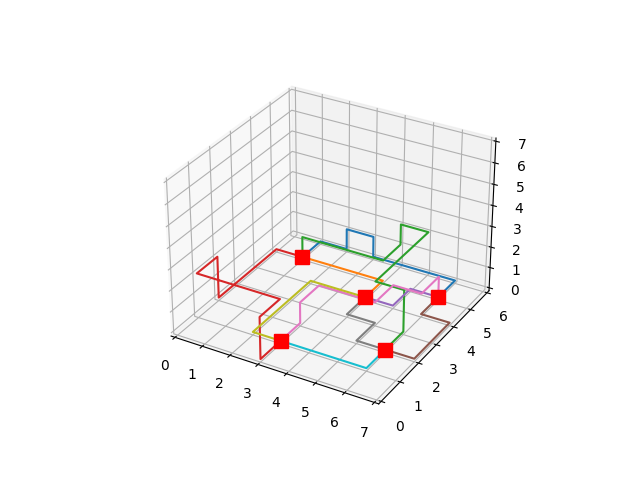
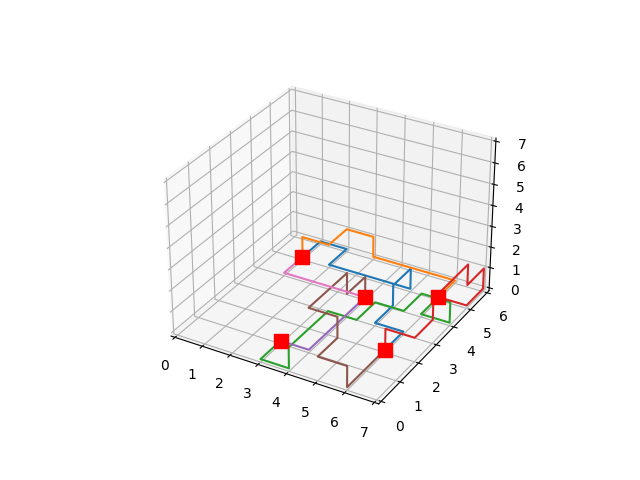
randomise

Changed region(s): [[0.3125, 0.4688, 0.7812, 0.8125]]

diff --git a/code/algorithms/randomise.py b/code/algorithms/randomise.py
@@ -1,7 +1,7 @@
 """
 This file contains the Random class which implements a random algorithm for finding paths between chips.
 """
-
+import sys 
 from calendar import c
 import random
 import copy
@@ -10,12 +10,12 @@ from code.classes import chips
 from code.classes.chips import Chip
 from code.classes.net import Net
 
+sys.setrecursionlimit(5000)
 
 class Random:
 
     def __init__(self, chip):
         self.chip = copy.deepcopy(chip)
-        self.backup = copy.deepcopy(chip)
         self.create_netlist()
         
 
@@ -71,8 +71,8 @@ class Random:
                     if len(lines) == len(set(lines)):
                         
                         for coordinate in lines:
-                            
-                            self.chip.grid[coordinate[0]][coordinate[1]][coordinate[2]] += 1
+                            if self.chip.grid[coordinate[0]][coordinate[1]][coordinate[2]] != -1:
+                                self.chip.grid[coordinate[0]][coordinate[1]][coordinate[2]] += 1
                         lines.append(end)
                         net = Net(lines)
                         current_coordinates = end
@@ -89,7 +89,8 @@ class Random:
                         try:
                             return self.random_path(start_gate, end_gate)
                         except RecursionError:
-                            return self.reset()
+                            print("stuck")
+                            quit() 
             
             if flag == False:
                 break
@@ -117,7 +118,9 @@ class Random:
                 try:
                     return self.random_path(start_gate, end_gate)
                 except RecursionError:
-                    return self.reset()
+                    print('stuck')
+                    quit() 
+                   
 
                     
                     
@@ -127,8 +130,6 @@ class Random:
         return print(f"double check {current_coordinates}, {end_coordinates}") 
     #==
         
-    def reset(self):
-        return self.__init__(self.backup)
 
 
     
